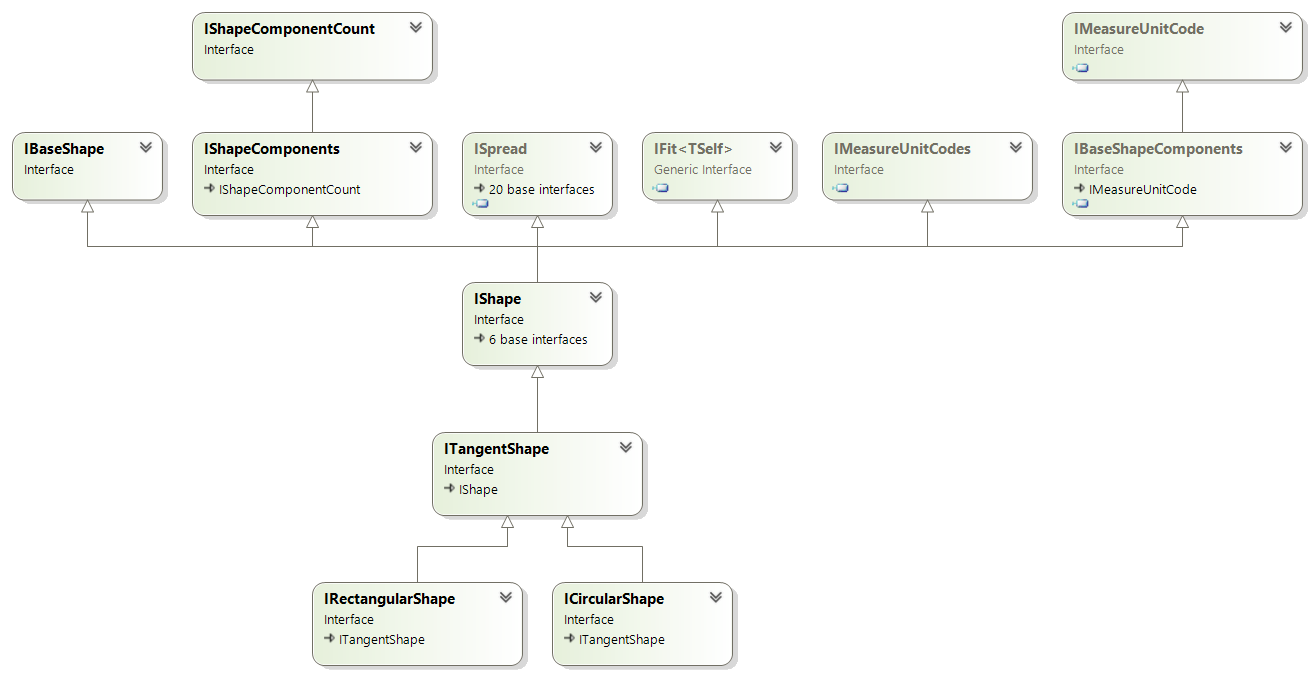
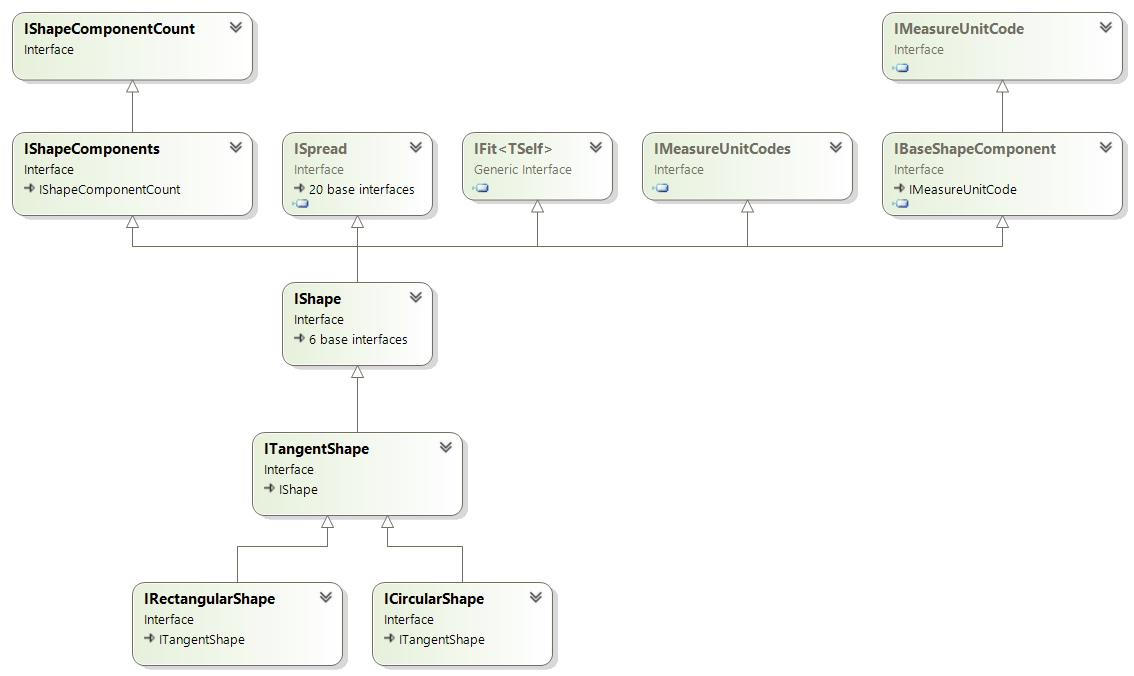
ShapeTests GetShapeComponents

diff --git a/_Tests/UnitTests/_BaseTypes/ShapesTests/TestClasses/ShapeTests.cs b/_Tests/UnitTests/_BaseTypes/ShapesTests/TestClasses/ShapeTests.cs
@@ -1,5 +1,6 @@
 using CsabaDu.FooVaria.BaseTypes.Measurables.Enums;
 using CsabaDu.FooVaria.BaseTypes.Quantifiables.Behaviors;
+using CsabaDu.FooVaria.BaseTypes.Shapes.Behaviors;
 using CsabaDu.FooVaria.BaseTypes.Shapes.Types.Implementations;
 
 namespace CsabaDu.FooVaria.Tests.UnitTests.BaseTypes.ShapesTests.TestClasses;
@@ -351,7 +352,7 @@ public sealed class ShapeTests
     #endregion
 
     #region IShape GetBaseShape
-    #region IShape.GetBaseShape()
+    #region abstract IShape.GetBaseShape()
     [TestMethod, TestCategory("UnitTest")]
     public void GetBaseShape_returns_expected()
     {
@@ -369,15 +370,68 @@ public sealed class ShapeTests
         Assert.AreEqual(expected, actual);
     }
     #endregion
+    #endregion
 
-    #region IShape.GetBaseShape(params IShapeComponent[] shapeComponents)
+    #region IShape GetShape
+    #region IShape.GetShape(params IShapeComponent[] shapeComponents)
+    [TestMethod, TestCategory("UnitTest")]
+    public void GetShape_arg_params_IShapeComponent_returns_expected()
+    {
+        // Arrange
+        _other = GetShapeChild(_shapeComponent);
 
+        SetShapeChild(_shapeComponent, _other);
+
+        IShape expected = new ShapeFactoryObject().CreateShape(_shapeComponent);
+
+        // Act
+        var actual = _shape.GetBaseShape();
+
+        // Assert
+        Assert.AreEqual(expected, actual);
+    }
     #endregion
     #endregion
 
-    // int IShapeComponentCount.GetShapeComponentCount()
+    #region int GetShapeComponentCount
+    #region IShapeComponentCount.GetShapeComponentCount()
+    [TestMethod, TestCategory("UnitTest")]
+    public void GetShapeComponentCount_returns_expected()
+    {
+        // Arrange
+        SetShapeChild();
 
-    // IEnumerable<IShapeComponent> IShapeComponents.GetShapeComponents()
+        int expected = 1;
+
+        // Act
+        var actual = _shape.GetShapeComponentCount();
+
+        // Assert
+        Assert.AreEqual(expected, actual);
+    }
+    #endregion
+    #endregion
+
+    #region IEnumerable<IShapeComponent> GetShapeComponents
+    #region abstract IShapeComponents.GetShapeComponents()
+    [TestMethod, TestCategory("UnitTest")]
+    public void GetShapeComponents_returns_expected()
+    {
+        // Arrange
+        SetShapeChild();
+
+        IEnumerable<IShapeComponent> expected = [_shapeComponent];
+
+        // Act
+        var actual = _shape.GetShapeComponents();
+
+        // Assert
+        Assert.IsTrue(expected.SequenceEqual(actual));
+    }
+    #endregion
+    #endregion
+
+
 
     // IShapeComponent? IShapeComponents.GetValidShapeComponent(IQuantifiable?)
 

diff --git a/_Tests/TestHelpers/Fakes/BaseTypes/Shapes/ShapeChild.cs b/_Tests/TestHelpers/Fakes/BaseTypes/Shapes/ShapeChild.cs
@@ -28,7 +28,7 @@ public class ShapeChild(IRootObject rootObject, string paramName) : Shape(rootOb
     // double IQuantity<double>.GetQuantity()
     // object IQuantity.GetQuantity(TypeCode quantityTypeCode)
     // TypeCode IQuantityType.GetQuantityTypeCode()
-    // IShape? IShape.GetBaseShape(params IShapeComponent[] shapeComponents)
+    // IShape? IShape.GetShape(params IShapeComponent[] shapeComponents)
     // int IShapeComponentCount.GetShapeComponentCount()
     // IEnumerable<IShapeComponent> IShapeComponents.GetShapeComponents()
     // ISpread ISpread.GetSpread(ISpreadMeasure spreadMeasure)

diff --git a/_BaseTypes/Shapes/Types/IShape.cs b/_BaseTypes/Shapes/Types/IShape.cs
@@ -1,8 +1,9 @@
 namespace CsabaDu.FooVaria.BaseTypes.Shapes.Types;
 
-public interface IShape : ISpread, IFit<IShape>, IShapeComponents, IMeasureUnitCodes, IBaseShape, IBaseShapeComponent, IEqualityComparer<IShape>
+public interface IShape : ISpread, IFit<IShape>, IShapeComponents, IMeasureUnitCodes, IBaseShapeComponent, IEqualityComparer<IShape>
 {
     IShape? GetShape(params IShapeComponent[] shapeComponents);
+    IShape GetBaseShape();
 
     void ValidateShapeComponent(IQuantifiable? quantifiable, string paramName);
 }
